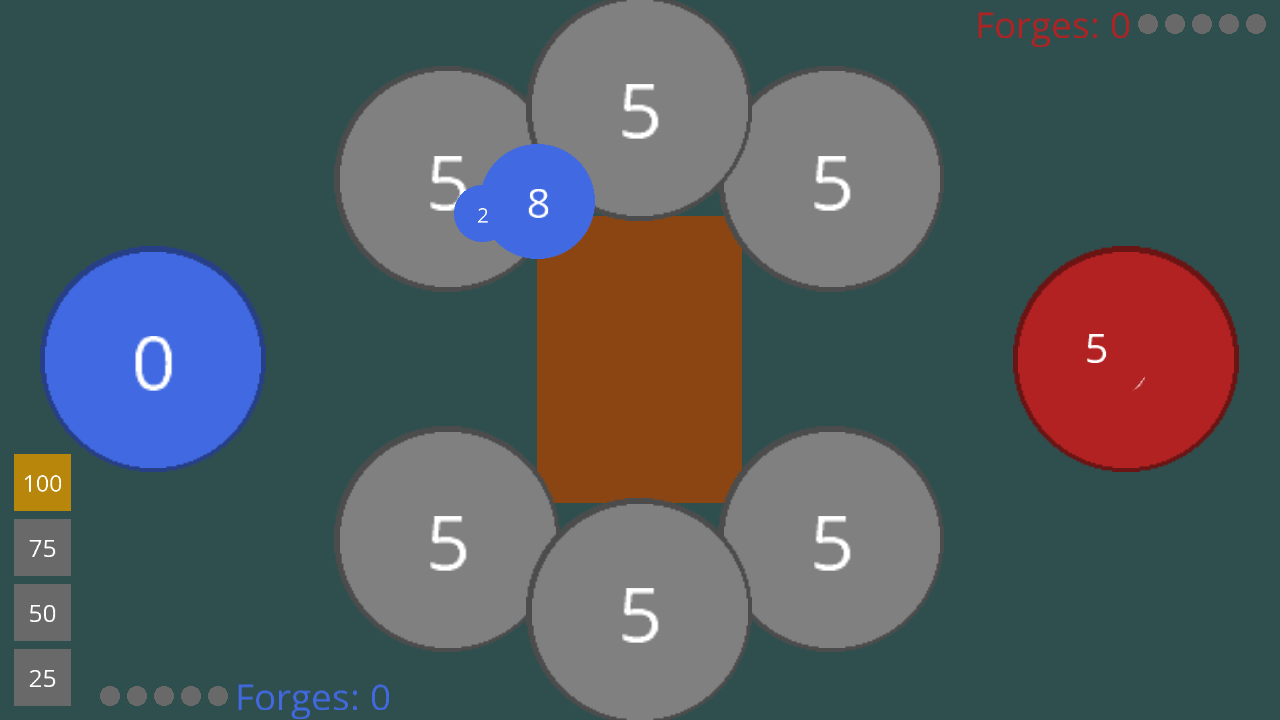
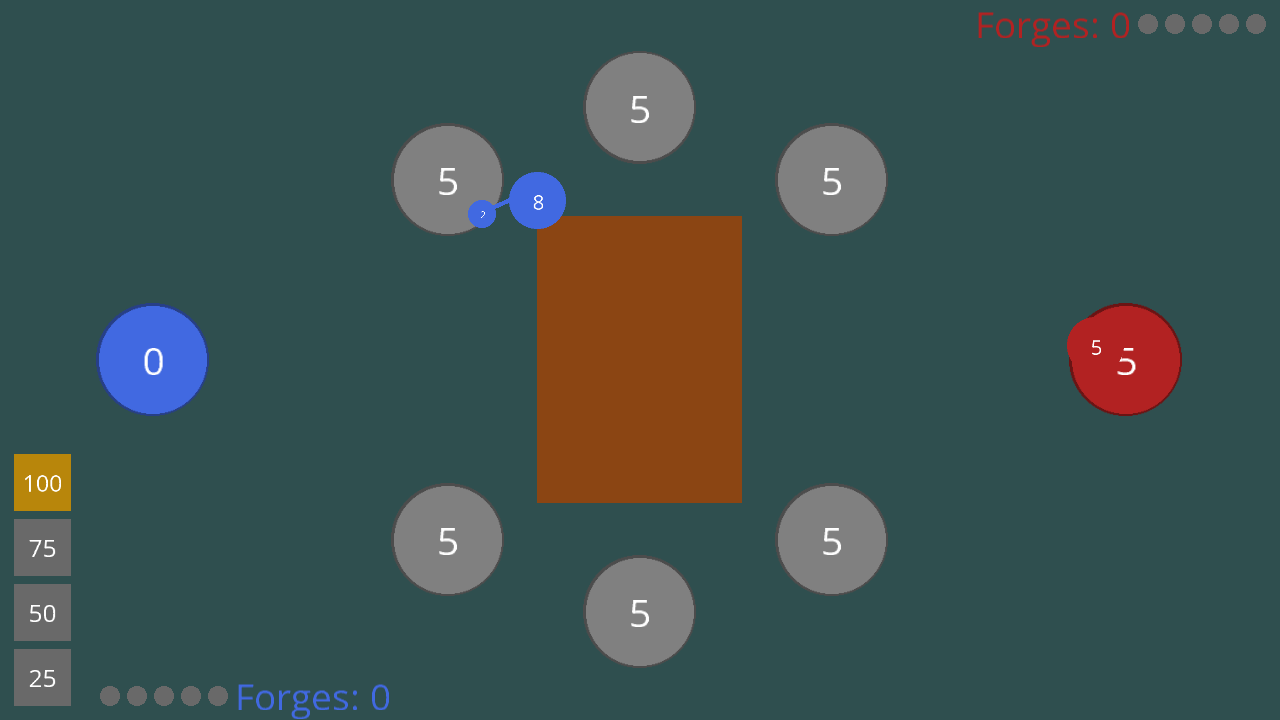
Halve base shapes on both heads (FR-5, closes #94) (#107)
_radiusFraction drops from 0.15 to 0.075. Army marker radii become
multiples of the base radius (0.5333x lead, 0.2667x trailing) instead
of independent viewport fractions, so a future radius change can
never again let a marker draw larger than a base. Re-derives the
trailing-radius comment's stale measurement and adds a reflection
test pinning the lead radius strictly under the base radius.

diff --git a/src/MW3.Game/MatchScreen.cs b/src/MW3.Game/MatchScreen.cs
@@ -18,17 +18,22 @@ namespace MW3.Game;
 /// </summary>
 internal sealed class MatchScreen : IScreen
 {
-    private const float _radiusFraction = 0.15f;
-    private const float _armyRadiusFraction = 0.08f;
+    private const float _radiusFraction = 0.075f;
+
+    // FR-5: expressed as multiples of _radiusFraction rather than independent viewport fractions,
+    // so a future base-radius change can never again let an army marker draw larger than a base -
+    // the defect #94 raised. They reproduce the pre-FR-5 ratios: 0.5333 * 0.075 = 0.04 and
+    // 0.2667 * 0.075 = 0.02.
+    private const float _armyRadiusFractionOfBase = 0.5333f;
+    private const float _armyTrailingRadiusFractionOfBase = 0.2667f;
     private const float _selectionHighlightScale = 1.35f;
 
-    // FR-4, D-36: the last wave of a multi-wave send draws at half _armyRadiusFraction. At
-    // 1280x720 that puts a tail marker's diameter (2 * 0.04 * 720 = 57.6px) under the horizontal
-    // wave spacing (0.05 map units * 1280px = 64px) - the worst overlap the kickoff measured no
-    // longer overlaps at all on that axis, and is materially reduced (69% -> 37.5%) on the
-    // vertical one. A single-wave send never reaches this - RadiusFraction returns
-    // _armyRadiusFraction unchanged whenever WaveCount <= 1 (D-36's bit-identical requirement).
-    private const float _armyTrailingRadiusFraction = 0.04f;
+    // FR-4, D-36: the last wave of a multi-wave send draws at half _armyRadiusFractionOfBase. At
+    // 1280x720 with the FR-5 base radius (0.075 * 720 = 54px), a tail marker's diameter
+    // (2 * 0.02 * 720 = 28.8px) is well under the horizontal wave spacing (0.05 map units * 1280px
+    // = 64px), and equally clear of it on the vertical axis. A single-wave send never reaches this
+    // - RadiusFraction returns the lead fraction unchanged whenever WaveCount <= 1 (D-36's
+    // bit-identical requirement).
 
     // The spine (D-36) is a thin line in the owner's tint connecting in-flight waves of one send,
     // drawn beneath their markers - thin enough it never reads as a marker itself.
@@ -727,7 +732,10 @@ internal sealed class MatchScreen : IScreen
             var center = _armyCenterScratch[i];
 
             var radiusFraction = WaveColumnPresentation.RadiusFraction(
-                army.WaveIndex, army.WaveCount, _armyRadiusFraction, _armyTrailingRadiusFraction);
+                army.WaveIndex,
+                army.WaveCount,
+                _armyRadiusFractionOfBase * _radiusFraction,
+                _armyTrailingRadiusFractionOfBase * _radiusFraction);
             var armyRadius = minDimension * radiusFraction;
             var armyDiameter = (int)(armyRadius * 2);
 

diff --git a/tests/MW3.Game.Tests/MatchScreenTests.cs b/tests/MW3.Game.Tests/MatchScreenTests.cs
@@ -1,0 +1,36 @@
+using System.Reflection;
+
+namespace MW3.Game.Tests;
+
+/// <summary>
+/// FR-5: guards against the army-marker-larger-than-base inversion #94 raised, by reading the
+/// private radius constants via reflection - <see cref="MatchScreen"/> draws with a graphics
+/// device and is not otherwise unit-testable.
+/// </summary>
+public class MatchScreenTests
+{
+    private static float GetPrivateConst(string name) =>
+        (float)typeof(MatchScreen)
+            .GetField(name, BindingFlags.NonPublic | BindingFlags.Static)!
+            .GetRawConstantValue()!;
+
+    [Fact]
+    public void LeadArmyRadius_IsStrictlyLessThanBaseRadius()
+    {
+        var radiusFraction = GetPrivateConst("_radiusFraction");
+        var armyRadiusFractionOfBase = GetPrivateConst("_armyRadiusFractionOfBase");
+
+        Assert.True(
+            armyRadiusFractionOfBase * radiusFraction < radiusFraction,
+            "a lead army marker must draw smaller than the base it launched from");
+    }
+
+    [Fact]
+    public void TrailingArmyRadius_IsStrictlyLessThanLeadArmyRadius()
+    {
+        var armyRadiusFractionOfBase = GetPrivateConst("_armyRadiusFractionOfBase");
+        var armyTrailingRadiusFractionOfBase = GetPrivateConst("_armyTrailingRadiusFractionOfBase");
+
+        Assert.True(armyTrailingRadiusFractionOfBase < armyRadiusFractionOfBase);
+    }
+}
